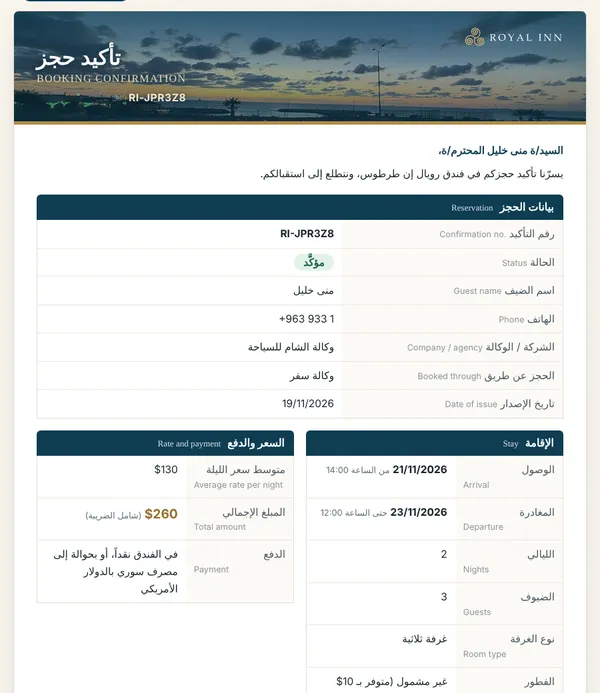
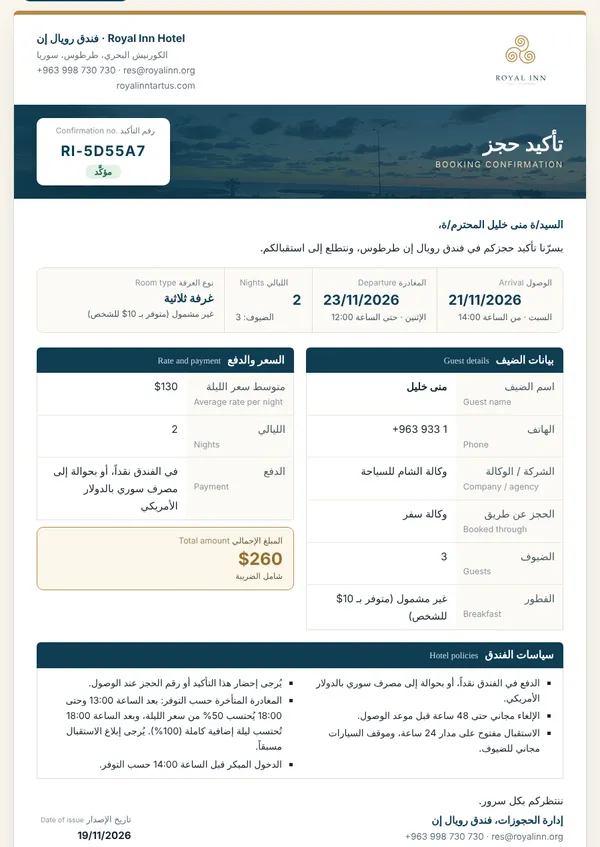
Real Excel export with named columns and four sheets; redesigned confirmation letter
Claude-Session: https://claude.ai/code/session_018wAQLqK4RswuuS9D7VS77M

diff --git a/site/panel/help.html b/site/panel/help.html
@@ -27,7 +27,7 @@
 <section id="guest" class="card"><h2><span class="ar">١. كيف يحجز الزبون من الموقع</span><span class="tr" lang="tr" dir="ltr">1. Misafir siteden nasıl rezervasyon yapar</span></h2><div class="cols"><div class="txt"><ol class="ar"><li>يختار الزبون تاريخ الوصول والمغادرة وعدد الضيوف ونوع الغرفة. يظهر له المبلغ فوراً، ويظهر له هل الغرفة متاحة.</li><li>يكتب اسمه ورقم هاتفه (واتساب)، ويختار الفطور إذا أراد، ثم يضغط «أرسل طلب الحجز».</li><li>يحصل على رقم حجز يبدأ بـ RI-. هذا <b>طلب</b> وليس حجزاً مؤكداً. الحجز يتأكد فقط عندما تؤكده أنت من اللوحة.</li><li>الزبون لا يدفع شيئاً على الموقع. الدفع في الفندق نقداً أو بحوالة مصرفية.</li><li>يستطيع الزبون لاحقاً أن يتحقق من حالة حجزه من صفحة «اتصل بنا»: يكتب رقم الحجز وآخر 4 أرقام من هاتفه، فيرى هل الحجز مؤكد أم ما زال بانتظار الرد.</li></ol><ol class="tr" lang="tr" dir="ltr"><li>Misafir giriş ve çıkış tarihini, kişi sayısını ve oda tipini seçer. Tutarı ve odanın müsait olup olmadığını hemen görür.</li><li>Adını ve telefonunu (WhatsApp) yazar, isterse kahvaltıyı işaretler ve «Rezervasyon talebini gönder»e basar.</li><li>RI- ile başlayan bir rezervasyon numarası alır. Bu bir <b>taleptir</b>, kesin rezervasyon değildir. Rezervasyon ancak siz panelden onaylayınca kesinleşir.</li><li>Misafir sitede ödeme yapmaz. Ödeme otelde nakit ya da banka havalesiyle yapılır.</li><li>Misafir daha sonra «İletişim» sayfasından rezervasyonunun durumunu kontrol edebilir: rezervasyon numarasını ve telefonunun son 4 hanesini yazar, onaylandı mı yoksa hâlâ bekliyor mu görür.</li></ol></div><div class="shots n3"><figure><img src="/panel/help/g1.webp" alt="" loading="lazy" width="600"></figure><figure><img src="/panel/help/g2.webp" alt="" loading="lazy" width="600"></figure><figure><img src="/panel/help/g3.webp" alt="" loading="lazy" width="600"></figure></div></div></section>
 <section id="login" class="card"><h2><span class="ar">٢. الدخول إلى اللوحة</span><span class="tr" lang="tr" dir="ltr">2. Panele giriş</span></h2><div class="cols"><div class="txt"><ol class="ar"><li>افتح العنوان <span class="ltr">royalinntartus.com/panel</span> من الهاتف أو الكمبيوتر.</li><li>اكتب كلمة المرور واضغط «دخول». كلمة المرور عند محمود. لا ترسلها عبر واتساب لأحد خارج الفندق.</li><li>نصيحة: أضف الصفحة إلى الشاشة الرئيسية للهاتف حتى تفتحها بضغطة واحدة.</li><li>عند الانتهاء على جهاز مشترك اضغط «خروج».</li></ol><ol class="tr" lang="tr" dir="ltr"><li>Telefondan ya da bilgisayardan <span class="ltr">royalinntartus.com/panel</span> adresini açın.</li><li>Şifreyi yazıp «دخول» (Giriş) düğmesine basın. Şifre Mahmud’da. Otel dışından kimseye WhatsApp ile göndermeyin.</li><li>İpucu: sayfayı telefonun ana ekranına ekleyin, tek dokunuşla açılır.</li><li>Ortak bir cihazda işiniz bitince «خروج» (Çıkış) düğmesine basın.</li></ol></div><div class="shots n1"><figure><img src="/panel/help/p1.webp" alt="" loading="lazy" width="600"></figure></div></div></section>
 <section id="new" class="card"><h2><span class="ar">٣. الطلبات الجديدة: أهم شاشة</span><span class="tr" lang="tr" dir="ltr">3. Yeni talepler: en önemli ekran</span></h2><div class="cols"><div class="txt"><ol class="ar"><li>الرقم الذهبي بجانب «طلبات جديدة» هو عدد الطلبات التي تنتظر ردّك. يظهر الرقم نفسه في عنوان الصفحة في المتصفح. استعمل خانة البحث للوصول إلى حجز بالاسم أو الهاتف أو رقم الحجز.</li><li>كل بطاقة فيها: الاسم، رقم الحجز، التواريخ، عدد الليالي والضيوف، الغرفة، الفطور، <b>المبلغ الإجمالي</b>، والهاتف.</li><li><b>واتساب للزبون</b>: يفتح واتساب برسالة جاهزة فيها تفاصيل الحجز والمبلغ. فقط اضغط إرسال.</li><li><b>اتصال</b>: يتصل برقم الزبون مباشرة.</li><li><b>تأكيد الحجز</b>: اضغطه بعد أن تتفق مع الزبون. عندها تُحسب الغرفة محجوزة ولا تُباع مرتين، وينتقل الحجز إلى «الحجوزات القادمة» لترسل منه رسالة التأكيد (القسم ١١).</li><li><b>إلغاء</b>: إذا لم يردّ الزبون أو غيّر رأيه. الغرفة تعود متاحة.</li><li><b>ملاحظة داخلية</b>: اكتب ما تريد (مثلاً: دفع عربون). الزبون لا يراها. اضغط «حفظ الملاحظة».</li><li>مهم: الطلب الجديد <b>لا يحجز</b> الغرفة. الغرفة تُحجز فقط بعد «تأكيد الحجز». لذلك ردّ بسرعة.</li></ol><ol class="tr" lang="tr" dir="ltr"><li>«طلبات جديدة» (Yeni talepler) yanındaki altın rengi sayı, cevabınızı bekleyen talep sayısıdır. Aynı sayı tarayıcı sekmesinin başlığında da görünür.</li><li>Her kartta: ad, rezervasyon numarası, tarihler, gece ve kişi sayısı, oda, kahvaltı, <b>toplam tutar</b> ve telefon vardır.</li><li><b>واتساب للزبون</b> (Misafire WhatsApp): rezervasyon ayrıntıları ve tutarın yazılı olduğu hazır mesajla WhatsApp’ı açar. Sadece gönder’e basın.</li><li><b>اتصال</b> (Ara): misafiri doğrudan arar.</li><li><b>تأكيد الحجز</b> (Rezervasyonu onayla): misafirle anlaştıktan sonra basın. O andan itibaren oda dolu sayılır, iki kez satılmaz.</li><li><b>إلغاء</b> (İptal): misafir cevap vermezse ya da vazgeçerse. Oda yeniden müsait olur.</li><li><b>ملاحظة داخلية</b> (İç not): istediğinizi yazın (örnek: kapora ödendi). Misafir görmez. «حفظ الملاحظة» ile kaydedin.</li><li>Önemli: yeni talep odayı <b>tutmaz</b>. Oda ancak «Rezervasyonu onayla»dan sonra tutulur. Bu yüzden hızlı cevap verin.</li></ol></div><div class="shots n2"><figure><img src="/panel/help/p2.webp" alt="" loading="lazy" width="600"></figure><figure><img src="/panel/help/p3.webp" alt="" loading="lazy" width="600"></figure></div></div></section>
-<section id="active" class="card"><h2><span class="ar">٤. الحجوزات القادمة وكل الطلبات</span><span class="tr" lang="tr" dir="ltr">4. Yaklaşan rezervasyonlar ve tüm talepler</span></h2><div class="cols"><div class="txt"><ol class="ar"><li>«الحجوزات القادمة»: كل الحجوزات التي لم تنتهِ بعد، مرتبة حسب تاريخ الوصول. الأخضر مؤكد، والذهبي ما زال جديداً.</li><li>إذا أكّدت حجزاً بالخطأ اضغط «إرجاع إلى جديد».</li><li>«كل الطلبات»: آخر 500 طلب، مع الملغاة.</li><li>«تنزيل Excel (CSV)»: ينزّل كل الحجوزات في ملف يفتح في Excel، للمحاسبة أو الأرشيف.</li></ol><ol class="tr" lang="tr" dir="ltr"><li>«الحجوزات القادمة» (Yaklaşan rezervasyonlar): henüz bitmemiş tüm rezervasyonlar, giriş tarihine göre sıralı. Yeşil onaylı, altın rengi hâlâ yeni demektir.</li><li>Bir rezervasyonu yanlışlıkla onayladıysanız «إرجاع إلى جديد» (Yeniye geri al) düğmesine basın.</li><li>«كل الطلبات» (Tüm talepler): iptal edilenler dahil son 500 talep.</li><li>«تنزيل Excel (CSV)»: tüm rezervasyonları Excel’de açılan bir dosya olarak indirir; muhasebe ve arşiv için.</li></ol></div><div class="shots n1"><figure><img src="/panel/help/p4.webp" alt="" loading="lazy" width="600"></figure></div></div></section>
+<section id="active" class="card"><h2><span class="ar">٤. الحجوزات القادمة وكل الطلبات</span><span class="tr" lang="tr" dir="ltr">4. Yaklaşan rezervasyonlar ve tüm talepler</span></h2><div class="cols"><div class="txt"><ol class="ar"><li>«الحجوزات القادمة»: كل الحجوزات التي لم تنتهِ بعد، مرتبة حسب تاريخ الوصول. الأخضر مؤكد، والذهبي ما زال جديداً.</li><li>إذا أكّدت حجزاً بالخطأ اضغط «إرجاع إلى جديد».</li><li>«كل الطلبات»: آخر 500 طلب، مع الملغاة.</li><li>«تنزيل Excel»: ينزّل ملف Excel حقيقياً فيه أربع أوراق: الحجوزات، الوكالات، دفعات الوكالات، والغرف. الأعمدة بأسماء واضحة مع فلتر وتواريخ ومبالغ جاهزة للجمع.</li></ol><ol class="tr" lang="tr" dir="ltr"><li>«الحجوزات القادمة» (Yaklaşan rezervasyonlar): henüz bitmemiş tüm rezervasyonlar, giriş tarihine göre sıralı. Yeşil onaylı, altın rengi hâlâ yeni demektir.</li><li>Bir rezervasyonu yanlışlıkla onayladıysanız «إرجاع إلى جديد» (Yeniye geri al) düğmesine basın.</li><li>«كل الطلبات» (Tüm talepler): iptal edilenler dahil son 500 talep.</li><li>«تنزيل Excel»: dört sayfalı gerçek bir Excel dosyası indirir: rezervasyonlar, acenteler, acente ödemeleri ve odalar. Sütun adları açık, filtre hazır, tarih ve tutarlar toplanabilir.</li></ol></div><div class="shots n1"><figure><img src="/panel/help/p4.webp" alt="" loading="lazy" width="600"></figure></div></div></section>
 <section id="occ" class="card"><h2><span class="ar">٥. الإشغال: كم غرفة محجوزة كل يوم</span><span class="tr" lang="tr" dir="ltr">5. Doluluk: her gün kaç oda dolu</span></h2><div class="cols"><div class="txt"><ol class="ar"><li>جدول لـ 31 يوماً. كل صف نوع غرفة، وكل عمود يوم.</li><li>الرقم في الخانة هو عدد الحجوزات <b>المؤكدة</b> في ذلك اليوم. إذا أدخلت عدد الغرف يظهر هكذا: المحجوز / العدد الكلي.</li><li>البرتقالي: توجد طلبات جديدة لم تُؤكد بعد. الرمادي: اليوم مغلق.</li><li>استخدم «السابق» و«التالي» للتنقل بين الأشهر.</li></ol><ol class="tr" lang="tr" dir="ltr"><li>31 günlük tablo. Her satır bir oda tipi, her sütun bir gün.</li><li>Kutudaki sayı o gün <b>onaylı</b> rezervasyon sayısıdır. Oda sayılarını girdiyseniz şöyle görünür: dolu / toplam.</li><li>Turuncu: henüz onaylanmamış yeni talep var. Gri: gün kapalı.</li><li>«السابق» (Önceki) ve «التالي» (Sonraki) ile aylar arasında gezin.</li></ol></div><div class="shots n1"><figure><img src="/panel/help/p5.webp" alt="" loading="lazy" width="600"></figure></div></div></section>
 <section id="add" class="card"><h2><span class="ar">٦. حجز جديد: هاتف، استقبال، وكالة أو توصية</span><span class="tr" lang="tr" dir="ltr">6. Telefonla ya da resepsiyondan gelen rezervasyon</span></h2><div class="cols"><div class="txt"><ol class="ar"><li>كل حجز يأتي بالهاتف أو واتساب أو من زبون في الاستقبال <b>يجب</b> تسجيله هنا. إذا لم تسجله، قد يبيع الموقع الغرفة نفسها لزبون آخر.</li><li>اكتب الاسم والهاتف والتواريخ ونوع الغرفة وعدد الضيوف.</li><li>المبلغ: اتركه فارغاً ليُحسب تلقائياً من الأسعار، أو اكتب المبلغ الذي اتفقت عليه.</li><li>اضغط «حفظ الحجز». يُسجَّل الحجز مؤكداً مباشرة ويظهر في الإشغال وفي «الحجوزات القادمة».</li></ol><ol class="tr" lang="tr" dir="ltr"><li>Telefonla, WhatsApp’la ya da resepsiyona gelen misafirden alınan her rezervasyon buraya <b>mutlaka</b> yazılmalı. Yazılmazsa site aynı odayı başka bir misafire satabilir.</li><li>Adı, telefonu, tarihleri, oda tipini ve kişi sayısını yazın.</li><li>Tutar: boş bırakırsanız fiyatlardan otomatik hesaplanır; anlaştığınız tutarı da yazabilirsiniz.</li><li>«حفظ الحجز» (Rezervasyonu kaydet) düğmesine basın. Rezervasyon doğrudan onaylı olarak kaydedilir ve dolulukta görünür.</li></ol></div><div class="shots n1"><figure><img src="/panel/help/p6.webp" alt="" loading="lazy" width="600"></figure></div></div></section>
 <section id="prices" class="card"><h2><span class="ar">٧. الأسعار</span><span class="tr" lang="tr" dir="ltr">7. Fiyatlar</span></h2><div class="cols"><div class="txt"><ol class="ar"><li><b>السعر الأساسي</b>: سعر الليلة لكل نوع غرفة بالدولار، شامل الضريبة. خانة «لشخصين+» هي السعر عند وجود ضيفين أو أكثر. اتركها فارغة إذا كان السعر واحداً.</li><li>إذا تركت سعر الجناح فارغاً يظهر في الموقع «السعر عند الطلب».</li><li>بعد التعديل اضغط «حفظ الأسعار». الموقع يعرض السعر الجديد فوراً.</li><li><b>أسعار خاصة</b> (موسم، أعياد، نهاية الأسبوع): اختر من تاريخ إلى تاريخ، نوع الغرفة، والسعر. يمكنك تحديد أيام معينة فقط، مثل الجمعة والسبت.</li><li>إذا تداخلت قاعدتان، تُطبَّق القاعدة التي أضفتها آخراً. لحذف قاعدة اضغط «حذف».</li></ol><ol class="tr" lang="tr" dir="ltr"><li><b>Temel fiyat</b>: her oda tipinin gecelik dolar fiyatı, vergi dahil. «لشخصين+» kutusu iki ve daha fazla kişi için fiyattır. Fiyat tekse boş bırakın.</li><li>Süit fiyatını boş bırakırsanız sitede «Fiyat sorunuz» yazar.</li><li>Değiştirdikten sonra «حفظ الأسعار» (Fiyatları kaydet) düğmesine basın. Site yeni fiyatı hemen gösterir.</li><li><b>Özel fiyatlar</b> (sezon, bayram, hafta sonu): başlangıç ve bitiş tarihini, oda tipini ve fiyatı seçin. Yalnızca belirli günleri de seçebilirsiniz, örneğin cuma ve cumartesi.</li><li>İki kural çakışırsa en son eklediğiniz geçerli olur. Kuralı silmek için «حذف» (Sil) düğmesine basın.</li></ol></div><div class="shots n1"><figure><img src="/panel/help/p7.webp" alt="" loading="lazy" width="600"></figure></div></div></section>

diff --git a/site/panel/letter.css b/site/panel/letter.css
@@ -51,3 +51,42 @@ h2 i{color:#cfdde2}
   .two{grid-template-columns:1fr 1fr}
   .bye{margin-top:10px}.lf{margin:10px 0 0;padding:8px 0 0}
 }
+
+/* v3: confirmation letter with a letterhead, a title bar, a stay strip and a total box */
+.letter{border-top:6px solid #B48A45}
+.lh{display:flex;align-items:center;justify-content:space-between;gap:20px;padding:22px 34px 18px}
+.lh img{width:128px;height:auto}
+.lh-c{display:grid;gap:1px;text-align:end;font-size:.84rem;color:#64727b}.lh-c b{color:#0F3D52;font-size:1rem}
+.hero{display:flex;align-items:center;justify-content:space-between;gap:20px;padding:20px 34px;color:#fff;
+  background:linear-gradient(90deg,rgba(15,61,82,.94),rgba(15,61,82,.72)),url(/assets/img/band-sunset-1200.jpg) center 82%/cover #0F3D52;
+  -webkit-print-color-adjust:exact;print-color-adjust:exact}
+.hero h1{font-family:"El Messiri","Cormorant Garamond",Almarai,serif;font-size:1.9rem;line-height:1.2;margin:0;color:#fff}
+.hero-t p{margin:2px 0 0;color:#e9d9b8;letter-spacing:.14em;text-transform:uppercase;font-size:.78rem}
+.refbox{background:#fff;color:#17242c;border-radius:10px;padding:10px 18px;text-align:center;display:grid;gap:2px;min-width:200px;box-shadow:0 6px 20px -10px rgba(0,0,0,.5)}
+.refbox span{font-size:.74rem;color:#64727b}.refbox span i{font-size:1em}
+.refbox b{font-size:1.35rem;letter-spacing:.06em;color:#0F3D52}
+.refbox em{font-style:normal;justify-self:center;font-size:.8rem}
+.strip{display:grid;grid-template-columns:1fr 1fr .7fr 1.5fr;border:1px solid #e4ddd0;border-radius:10px;overflow:hidden;margin:16px 0 4px;background:#fcfaf6;break-inside:avoid;
+  -webkit-print-color-adjust:exact;print-color-adjust:exact}
+.tile{padding:12px 16px;display:grid;gap:2px;align-content:start}
+.tile+.tile{border-inline-start:1px solid #e4ddd0}
+.tile .tl{font-size:.76rem;color:#64727b}.tile .tl i{font-size:1em}
+.tile b{font-size:1.3rem;color:#0F3D52;line-height:1.3}.tile.wide b{font-size:1.08rem}
+.tile .ts{font-size:.8rem;color:#4a5a63}
+.total{display:flex;justify-content:space-between;align-items:stretch;gap:0;margin-top:10px;border:1px solid #B48A45;border-radius:10px;overflow:hidden;background:#fbf6ea;break-inside:avoid;
+  -webkit-print-color-adjust:exact;print-color-adjust:exact}
+.total>div{flex:1;padding:10px 16px;display:grid;gap:0}
+.total span{font-size:.78rem;color:#6b5a36}.total span i{font-size:1em;color:#9a8a66}
+.total b{font-size:1.6rem;color:#96702f;line-height:1.25}.total small{color:#6b5a36;font-size:.76rem}
+.total .due{border-inline-start:1px solid #e3cf9f;background:#fff}.total .due b{color:#0F3D52}
+.pols .pol{columns:2;column-gap:34px;font-size:.88rem}.pols .pol li{break-inside:avoid}
+.signs{display:flex;justify-content:space-between;align-items:flex-end;gap:20px;margin-top:20px;break-inside:avoid}
+.signs .bye{margin:0 0 4px}.signs .sign{margin:0;font-weight:700;color:#0F3D52}.muted{color:#64727b;font-size:.84rem;margin:0}
+.issue{display:grid;gap:1px;text-align:end;font-size:.8rem;color:#64727b}.issue b{color:#17242c;font-size:.95rem}
+.auto{margin:14px 0 0;padding-top:10px;border-top:1px dashed #d9d0bf;font-size:.76rem;color:#8a959c;text-align:center}
+.lf2{display:flex;justify-content:space-between;gap:12px;background:#0F3D52;color:#dfe9ec;font-size:.8rem;padding:9px 34px;margin-top:18px;-webkit-print-color-adjust:exact;print-color-adjust:exact}
+@media (max-width:640px){.lh{padding:16px;flex-direction:column;align-items:flex-start}.lh-c{text-align:start}.hero{padding:16px;flex-direction:column;align-items:stretch}.hero h1{font-size:1.5rem}
+  .strip{grid-template-columns:1fr 1fr}.tile:nth-child(3){border-inline-start:0}.tile:nth-child(n+3){border-top:1px solid #e4ddd0}.pols .pol{columns:1}.signs{flex-direction:column;align-items:flex-start}.issue{text-align:start}.lf2{padding:9px 16px;flex-direction:column}}
+@media print{.letter{border-top:5px solid #B48A45}.lh{padding:0 0 10px}.lh img{width:92px}.hero{padding:12px 18px}.hero h1{font-size:1.45rem}.refbox{padding:6px 14px}.refbox b{font-size:1.1rem}
+  .strip{margin:10px 0 0}.tile{padding:7px 12px}.tile b{font-size:1.1rem}.total b{font-size:1.3rem}.total>div{padding:6px 12px}.signs{margin-top:12px}.auto{margin-top:8px;padding-top:6px}.lf2{padding:6px 12px;margin-top:10px}
+  .strip{grid-template-columns:1fr 1fr .7fr 1.5fr}.pols .pol{columns:2}}

diff --git a/site/panel/index.html b/site/panel/index.html
@@ -70,7 +70,7 @@
     </div>
 
     <div id="view-list">
-      <div class="page-head"><h1 id="list-h">الطلبات</h1><a class="ghost sm" href="/api/admin/export.csv">تنزيل Excel (CSV)</a></div>
+      <div class="page-head"><h1 id="list-h">الطلبات</h1><a class="ghost sm" href="/api/admin/export.xlsx">تنزيل Excel</a></div>
       <div class="bar"><span id="list-title" class="muted"></span><input type="search" id="list-search" class="search" placeholder="بحث: اسم، هاتف، رقم الحجز" aria-label="بحث في الطلبات"></div>
       <div id="list"></div>
     </div>

diff --git a/app/api.py b/app/api.py
@@ -551,6 +551,102 @@ def agency_sums(con, aid):
     return bks, pays, {'bookings': len(bks), 'sales': sales, 'due': due, 'paid': paid, 'balance': due - paid, 'commission_owed': commission}
 
 
+def xlsx(sheets):
+    """A real Excel workbook, written with the standard library only. sheets = [(name, [(header, width, kind)], rows)].
+    kind: 's' text, 'n' number, 'm' money, 'd' date (YYYY-MM-DD), 't' date and time. Right-to-left, frozen header, filter."""
+    import zipfile
+    from xml.sax.saxutils import escape as x
+
+    def col(i):
+        r = ''
+        i += 1
+        while i:
+            i, m = divmod(i - 1, 26); r = chr(65 + m) + r
+        return r
+
+    def cell(ref, v, kind, head=False):
+        if head:
+            return '<c r="%s" s="1" t="inlineStr"><is><t>%s</t></is></c>' % (ref, x(v))
+        if v is None or v == '':
+            return ''
+        try:
+            if kind in ('n', 'm'):
+                return '<c r="%s" s="%d"><v>%s</v></c>' % (ref, 3 if kind == 'm' else 0, float(v) if isinstance(v, float) else int(v))
+            if kind == 'd':
+                return '<c r="%s" s="2"><v>%d</v></c>' % (ref, (dt.date.fromisoformat(str(v)[:10]) - dt.date(1899, 12, 30)).days)
+            if kind == 't':
+                t = dt.datetime.fromisoformat(str(v)).astimezone().replace(tzinfo=None)
+                return '<c r="%s" s="4"><v>%.5f</v></c>' % (ref, (t - dt.datetime(1899, 12, 30)).total_seconds() / 86400.0)
+        except (TypeError, ValueError):
+            pass
+        return '<c r="%s" t="inlineStr"><is><t xml:space="preserve">%s</t></is></c>' % (ref, x(re.sub(r'[\x00-\x08\x0b\x0c\x0e-\x1f]', '', str(v))))
+
+    styles = ('<?xml version="1.0" encoding="UTF-8" standalone="yes"?><styleSheet xmlns="http://schemas.openxmlformats.org/spreadsheetml/2006/main">'
+              '<numFmts count="3"><numFmt numFmtId="164" formatCode="dd/mm/yyyy"/><numFmt numFmtId="165" formatCode="&quot;$&quot;#,##0"/><numFmt numFmtId="166" formatCode="dd/mm/yyyy hh:mm"/></numFmts>'
+              '<fonts count="2"><font><sz val="11"/><name val="Calibri"/></font><font><b/><sz val="11"/><color rgb="FFFFFFFF"/><name val="Calibri"/></font></fonts>'
+              '<fills count="3"><fill><patternFill patternType="none"/></fill><fill><patternFill patternType="gray125"/></fill><fill><patternFill patternType="solid"><fgColor rgb="FF0F3D52"/></patternFill></fill></fills>'
+              '<borders count="1"><border><left/><right/><top/><bottom/><diagonal/></border></borders><cellStyleXfs count="1"><xf numFmtId="0" fontId="0" fillId="0" borderId="0"/></cellStyleXfs>'
+              '<cellXfs count="5"><xf numFmtId="0" fontId="0" fillId="0" borderId="0" xfId="0"/>'
+              '<xf numFmtId="0" fontId="1" fillId="2" borderId="0" xfId="0" applyFont="1" applyFill="1" applyAlignment="1"><alignment horizontal="center" vertical="center" wrapText="1"/></xf>'
+              '<xf numFmtId="164" fontId="0" fillId="0" borderId="0" xfId="0" applyNumberFormat="1"/><xf numFmtId="165" fontId="0" fillId="0" borderId="0" xfId="0" applyNumberFormat="1"/>'
+              '<xf numFmtId="166" fontId="0" fillId="0" borderId="0" xfId="0" applyNumberFormat="1"/></cellXfs>'
+              '<cellStyles count="1"><cellStyle name="Normal" xfId="0" builtinId="0"/></cellStyles></styleSheet>')
+    buf = io.BytesIO()
+    with zipfile.ZipFile(buf, 'w', zipfile.ZIP_DEFLATED) as z:
+        z.writestr('[Content_Types].xml', '<?xml version="1.0" encoding="UTF-8" standalone="yes"?><Types xmlns="http://schemas.openxmlformats.org/package/2006/content-types">'
+                   '<Default Extension="rels" ContentType="application/vnd.openxmlformats-package.relationships+xml"/><Default Extension="xml" ContentType="application/xml"/>'
+                   '<Override PartName="/xl/workbook.xml" ContentType="application/vnd.openxmlformats-officedocument.spreadsheetml.sheet.main+xml"/>'
+                   '<Override PartName="/xl/styles.xml" ContentType="application/vnd.openxmlformats-officedocument.spreadsheetml.styles+xml"/>'
+                   + ''.join('<Override PartName="/xl/worksheets/sheet%d.xml" ContentType="application/vnd.openxmlformats-officedocument.spreadsheetml.worksheet+xml"/>' % (i + 1) for i in range(len(sheets))) + '</Types>')
+        z.writestr('_rels/.rels', '<?xml version="1.0" encoding="UTF-8" standalone="yes"?><Relationships xmlns="http://schemas.openxmlformats.org/package/2006/relationships">'
+                   '<Relationship Id="rId1" Type="http://schemas.openxmlformats.org/officeDocument/2006/relationships/officeDocument" Target="xl/workbook.xml"/></Relationships>')
+        z.writestr('xl/workbook.xml', '<?xml version="1.0" encoding="UTF-8" standalone="yes"?><workbook xmlns="http://schemas.openxmlformats.org/spreadsheetml/2006/main" '
+                   'xmlns:r="http://schemas.openxmlformats.org/officeDocument/2006/relationships"><sheets>'
+                   + ''.join('<sheet name="%s" sheetId="%d" r:id="rId%d"/>' % (x(n), i + 1, i + 1) for i, (n, _c, _r) in enumerate(sheets)) + '</sheets></workbook>')
+        z.writestr('xl/_rels/workbook.xml.rels', '<?xml version="1.0" encoding="UTF-8" standalone="yes"?><Relationships xmlns="http://schemas.openxmlformats.org/package/2006/relationships">'
+                   + ''.join('<Relationship Id="rId%d" Type="http://schemas.openxmlformats.org/officeDocument/2006/relationships/worksheet" Target="worksheets/sheet%d.xml"/>' % (i + 1, i + 1) for i in range(len(sheets)))
+                   + '<Relationship Id="rId%d" Type="http://schemas.openxmlformats.org/officeDocument/2006/relationships/styles" Target="styles.xml"/></Relationships>' % (len(sheets) + 1))
+        z.writestr('xl/styles.xml', styles)
+        for i, (_n, cols, rows) in enumerate(sheets):
+            last = '%s%d' % (col(len(cols) - 1), len(rows) + 1)
+            body = '<row r="1" ht="30" customHeight="1">%s</row>' % ''.join(cell('%s1' % col(c), h, 's', True) for c, (h, _w, _k) in enumerate(cols))
+            for ri, r in enumerate(rows):
+                body += '<row r="%d">%s</row>' % (ri + 2, ''.join(cell('%s%d' % (col(c), ri + 2), r[c], cols[c][2]) for c in range(len(cols))))
+            z.writestr('xl/worksheets/sheet%d.xml' % (i + 1), '<?xml version="1.0" encoding="UTF-8" standalone="yes"?><worksheet xmlns="http://schemas.openxmlformats.org/spreadsheetml/2006/main">'
+                       '<sheetViews><sheetView rightToLeft="1" workbookViewId="0"%s><pane ySplit="1" topLeftCell="A2" activePane="bottomLeft" state="frozen"/></sheetView></sheetViews>' % (' tabSelected="1"' if i == 0 else '')
+                       + '<cols>%s</cols><sheetData>%s</sheetData><autoFilter ref="A1:%s"/></worksheet>' % (''.join('<col min="%d" max="%d" width="%d" customWidth="1"/>' % (c + 1, c + 1, w) for c, (_h, w, _k) in enumerate(cols)), body, last))
+    return buf.getvalue()
+
+
+def export_book(con):
+    load_agencies(con)
+    stt = {'new': 'جديد', 'confirmed': 'مؤكَّد', 'cancelled': 'ملغى'}
+    cols = [('رقم الحجز', 13, 's'), ('الحالة', 10, 's'), ('المصدر', 14, 's'), ('الوكالة', 20, 's'), ('من يدفع', 10, 's'), ('اسم الضيف', 24, 's'), ('الهاتف', 18, 's'), ('البريد الإلكتروني', 28, 's'),
+            ('الوصول', 12, 'd'), ('المغادرة', 12, 'd'), ('الليالي', 8, 'n'), ('الضيوف', 8, 'n'), ('نوع الغرفة', 22, 's'), ('رقم الغرفة', 10, 's'), ('الفطور', 8, 's'),
+            ('المبلغ الإجمالي', 14, 'm'), ('رسم المغادرة المتأخرة', 14, 'm'), ('المدفوع', 11, 'm'), ('المتبقي', 11, 'm'), ('الصافي من الوكالة', 14, 'm'),
+            ('سُجِّل الوصول', 17, 't'), ('سُجِّلت المغادرة', 17, 't'), ('عدم حضور', 9, 's'), ('عن طريق (شخص)', 18, 's'), ('رسالة الضيف', 36, 's'), ('ملاحظة داخلية', 36, 's'), ('تاريخ الطلب', 17, 't')]
+    rows = []
+    for r in con.execute('SELECT * FROM bookings ORDER BY check_in DESC, created DESC'):
+        tot, paid = r['total'], r['paid']
+        rows.append([r['ref'], stt.get(r['status'], r['status']), SOURCES.get(r['source'] or 'web', 'الموقع'), AGENCIES.get(r['agency_id'], '') if r['agency_id'] else '',
+                     ('الوكالة' if r['pay_by'] == 'agency' else 'الضيف') if r['agency_id'] else '', r['name'], r['phone'], r['email'], r['check_in'], r['check_out'], r['nights'], r['guests'],
+                     ROOMS[r['room']][1] if r['room'] in ROOMS else 'غير محدد', r['room_no'], 'نعم' if r['breakfast'] else 'لا', tot, r['late_fee'], paid,
+                     None if tot is None or r['status'] == 'cancelled' else max(0, tot - (paid or 0)), r['net'] if r['pay_by'] == 'agency' else None,
+                     r['arrived'], r['departed'], 'نعم' if r['no_show'] else '', r['referrer'], r['message'], r['staff_note'], r['created']])
+    acols = [('الوكالة', 26, 's'), ('العمولة %', 10, 'n'), ('المسؤول', 20, 's'), ('الهاتف', 18, 's'), ('حجوزات مؤكَّدة', 12, 'n'), ('إجمالي المبيعات', 14, 'm'),
+             ('المستحق على الوكالة', 16, 'm'), ('المدفوع', 12, 'm'), ('الرصيد المتبقي', 14, 'm'), ('عمولة مستحقة للوكالة', 16, 'm')]
+    arows = []
+    for a in con.execute('SELECT * FROM agencies ORDER BY name').fetchall():
+        _b, _p, sm = agency_sums(con, a['id'])
+        arows.append([a['name'], a['commission'], a['contact'], a['phone'], sm['bookings'], sm['sales'], sm['due'], sm['paid'], sm['balance'], sm['commission_owed']])
+    pcols = [('التاريخ', 12, 'd'), ('الوكالة', 26, 's'), ('المبلغ', 12, 'm'), ('ملاحظة', 36, 's')]
+    prows = [[x['date'], AGENCIES.get(x['agency_id'], ''), x['amount'], x['note']] for x in con.execute('SELECT * FROM agency_payments ORDER BY date DESC, id DESC')]
+    ucols = [('رقم الغرفة', 11, 's'), ('نوع الغرفة', 24, 's'), ('الطابق', 9, 's'), ('الحالة اليوم', 22, 's'), ('الضيف', 24, 's'), ('حتى', 12, 'd')]
+    ust = {'free': 'جاهزة', 'occupied': 'مشغولة', 'arriving': 'محجوزة، الضيف لم يصل', 'leaving': 'مغادرة اليوم', 'dirty': 'تحتاج تنظيف', 'out': 'خارج الخدمة'}
+    urows = [[u['no'], u['room_name'], u['floor'], ust[u['state']], u['guest'], u['until']] for u in units_view(con, dt.date.today().isoformat())]
+    return xlsx([('الحجوزات', cols, rows), ('الوكالات', acols, arows), ('دفعات الوكالات', pcols, prows), ('الغرف', ucols, urows)])
+
+
 def units_view(con, ds, free_only=False):
     """The room rack for one day: every numbered room with who is in it, who arrives and who leaves."""
     out = []
@@ -589,11 +685,11 @@ def row(r):
 HOTEL = {'phone': '+963 998 730 730', 'wa': '963998730730', 'email': 'res@royalinn.org', 'site': 'royalinntartus.com'}
 # Labels are printed in both languages: the guest's language first, the other one small beside it.
 LBL = {'ref': ('Confirmation no.', 'رقم التأكيد'), 'status': ('Status', 'الحالة'), 'issued': ('Date of issue', 'تاريخ الإصدار'), 'to': ('Guest name', 'اسم الضيف'),
-       'phone': ('Phone', 'الهاتف'), 'company': ('Company / agency', 'الشركة / الوكالة'), 'via': ('Booked through', 'الحجز عن طريق'),
+       'phone': ('Phone', 'الهاتف'), 'email': ('E-mail', 'البريد الإلكتروني'), 'company': ('Company / agency', 'الشركة / الوكالة'), 'via': ('Booked through', 'الحجز عن طريق'),
        'cin': ('Arrival', 'الوصول'), 'cout': ('Departure', 'المغادرة'), 'nights': ('Nights', 'الليالي'), 'guests': ('Guests', 'الضيوف'),
        'room': ('Room type', 'نوع الغرفة'), 'room_no': ('Room number', 'رقم الغرفة'), 'bf': ('Breakfast', 'الفطور'), 'rate': ('Average rate per night', 'متوسط سعر الليلة'),
        'late': ('Late check-out fee', 'رسم المغادرة المتأخرة'), 'total': ('Total amount', 'المبلغ الإجمالي'), 'paid': ('Paid', 'المدفوع'), 'due': ('Balance due at the hotel', 'المتبقي للدفع في الفندق'), 'pay': ('Payment', 'الدفع')}
-SEC = {'res': ('Reservation', 'بيانات الحجز'), 'stay': ('Stay', 'الإقامة'), 'rate': ('Rate and payment', 'السعر والدفع'), 'pol': ('Hotel policies', 'سياسات الفندق')}
+SEC = {'res': ('Guest details', 'بيانات الضيف'), 'stay': ('Stay', 'الإقامة'), 'rate': ('Rate and payment', 'السعر والدفع'), 'pol': ('Hotel policies', 'سياسات الفندق')}
 VIA = {'web': ('Hotel website', 'موقع الفندق'), 'desk': ('Hotel reception', 'استقبال الفندق'), 'phone': ('Telephone', 'الهاتف'), 'agency': ('Travel agency', 'وكالة سفر'), 'referral': ('Referral', 'توصية')}
 LETTER = {
     'ar': dict(dir='rtl', title='تأكيد حجز', hello='السيد/ة {name} المحترم/ة،', intro='يسرّنا تأكيد حجزكم في فندق رويال إن طرطوس، ونتطلع إلى استقبالكم.',
@@ -625,7 +721,7 @@ def _fd(ds):
 def doc_head(lang, direction, title):
     return ('<!DOCTYPE html>\n<html lang="%s" dir="%s">\n<head>\n<meta charset="utf-8">\n<meta name="viewport" content="width=device-width, initial-scale=1">\n'
             '<meta name="robots" content="noindex, nofollow">\n<title>%s | Royal Inn Tartus</title>\n<link rel="icon" href="/favicon.ico">\n'
-            '<link rel="stylesheet" href="/assets/css/fonts-g.css?v=1">\n<link rel="stylesheet" href="/panel/letter.css?v=2">\n<script src="/panel/letter.js?v=1" defer></script>\n</head>\n<body>\n'
+            '<link rel="stylesheet" href="/assets/css/fonts-g.css?v=1">\n<link rel="stylesheet" href="/panel/letter.css?v=3">\n<script src="/panel/letter.js?v=1" defer></script>\n</head>\n<body>\n'
             % (lang, direction, _esc(title)))
 
 
@@ -657,44 +753,60 @@ def letter_html(r, S=None):
         return head + '<main class="sheet">' + doc_band(e(msg)) + '<div class="pad">%s</div>' % sub + doc_foot(L['addr']) + '</main>\n</body>\n</html>\n'
     keys = r.keys()
     g = lambda k: r[k] if k in keys else None
+    O = LETTER['en' if lang == 'ar' else 'ar']
     lab = lambda k: '%s <i dir="auto">%s</i>' % (e(LBL[k][i]), e(LBL[k][j]))
     sec = lambda k, rows: ('<section class="sec"><h2>%s <i>%s</i></h2><table class="lt">%s</table></section>'
                            % (e(SEC[k][i]), e(SEC[k][j]), ''.join('<tr><th>%s</th><td>%s</td></tr>' % (lab(a), v) for a, v in rows)))
     agency = AGENCIES.get(g('agency_id')) if g('agency_id') else None
     room = ROOMS[r['room']][0 if lang == 'en' else 1] if r['room'] in ROOMS else L['any']
-    res = [('ref', '<b dir="ltr">%s</b>' % e(r['ref'])), ('status', '<span class="ok">%s</span>' % e(L['confirmed'])),
-           ('to', e(r['name']))]
+    dn = (['Monday', 'Tuesday', 'Wednesday', 'Thursday', 'Friday', 'Saturday', 'Sunday'] if lang == 'en'
+          else ['الإثنين', 'الثلاثاء', 'الأربعاء', 'الخميس', 'الجمعة', 'السبت', 'الأحد'])
+    wd = lambda ds: dn[dt.date.fromisoformat(ds).weekday()]
+    tile = lambda k, big, small, cls='': '<div class="tile %s"><span class="tl">%s</span><b dir="auto">%s</b><span class="ts">%s</span></div>' % (cls, lab(k), big, small)
+    strip = ('<div class="strip">' + tile('cin', _fd(r['check_in']), '%s · %s' % (e(wd(r['check_in'])), e(L['from14'])))
+             + tile('cout', _fd(r['check_out']), '%s · %s' % (e(wd(r['check_out'])), e(L['until12'])))
+             + tile('nights', r['nights'], '%s: %s' % (e(LBL['guests'][i]), r['guests']), 'num') + tile('room', e(room), ('%s: %s' % (e(LBL['room_no'][i]), e(g('room_no')))) if g('room_no') else e(L['yes'] if r['breakfast'] else L['no']), 'wide') + '</div>')
+    res = [('to', '<b>%s</b>' % e(r['name']))]
     if r['phone'] and r['phone'] != '-':
         res.append(('phone', '<span dir="ltr">%s</span>' % e(r['phone'])))
+    if g('email'):
+        res.append(('email', '<span dir="ltr">%s</span>' % e(g('email'))))
     if agency:
         res.append(('company', e(agency)))
     src = g('source') or 'web'
     res.append(('via', e(VIA.get(src, VIA['web'])[i]) + ((' · ' + e(g('referrer'))) if (src == 'referral' and g('referrer')) else '')))
-    res.append(('issued', '<span dir="ltr">%s</span>' % _fd(dt.date.today().isoformat())))
-    stay = [('cin', '<b dir="ltr">%s</b> <small>%s</small>' % (_fd(r['check_in']), e(L['from14']))),
-            ('cout', '<b dir="ltr">%s</b> <small>%s</small>' % (_fd(r['check_out']), e(L['until12']))),
-            ('nights', r['nights']), ('guests', r['guests']), ('room', e(room))]
-    if g('room_no'):
-        stay.append(('room_no', '<span dir="ltr">%s</span>' % e(g('room_no'))))
-    stay.append(('bf', e(L['yes'] if r['breakfast'] else L['no'])))
+    res += [('guests', r['guests']), ('bf', e(L['yes'] if r['breakfast'] else L['no']))]
+    total_box = ''
     if agency and g('pay_by') == 'agency':      # a voucher: the guest pays the agency, so no amounts are printed
         rate = [('pay', e(L['by_agency'].format(a=agency)))]
     elif r['total']:
-        paid = g('paid') or 0
-        rate = [('rate', '$%d' % round((r['total'] - (g('late_fee') or 0)) / max(1, r['nights']))), ('total', '<b class="tot">$%d</b> <small>(%s)</small>' % (r['total'], e(L['tax'])))]
-        if g('late_fee'):
-            rate.insert(1, ('late', '$%d' % g('late_fee')))
+        paid = g('paid') or 0; lf = g('late_fee') or 0
+        rate = [('rate', '$%d' % round((r['total'] - lf) / max(1, r['nights']))), ('nights', '%d' % r['nights'])]
+        if lf:
+            rate.append(('late', '$%d' % lf))
         if paid:
-            rate += [('paid', '$%d' % paid), ('due', '<b>$%d</b>' % max(0, r['total'] - paid))]
+            rate.append(('paid', '$%d' % paid))
         rate.append(('pay', e(L['at_hotel'])))
+        due = max(0, r['total'] - paid)
+        total_box = ('<div class="total"><div><span>%s</span><b>$%d</b><small>%s</small></div>%s</div>'
+                     % (lab('total'), r['total'], e(L['tax']), ('<div class="due"><span>%s</span><b>$%d</b></div>' % (lab('due'), due)) if paid else ''))
     else:
         rate = [('total', e(L['ask'])), ('pay', e(L['at_hotel']))]
-    pol = '<section class="sec"><h2>%s <i>%s</i></h2><ul class="pol">%s</ul></section>' % (e(SEC['pol'][i]), e(SEC['pol'][j]), ''.join('<li>%s</li>' % e(x) for x in L['t']))
-    band = doc_band(e(L['title']) + (' <i>%s</i>' % e(LETTER['en' if lang == 'ar' else 'ar']['title'])), '<p dir="ltr">%s</p>' % e(r['ref']))
-    return (head + '<div class="tools"><button type="button" data-print>%s</button></div><main class="sheet">' % e(L['print']) + band
+    pol = '<section class="sec pols"><h2>%s <i>%s</i></h2><ul class="pol">%s</ul></section>' % (e(SEC['pol'][i]), e(SEC['pol'][j]), ''.join('<li>%s</li>' % e(x) for x in L['t']))
+    lh = ('<header class="lh"><img src="/assets/img/logo-stacked.svg" alt="Royal Inn" width="150" height="109">'
+          '<div class="lh-c"><b>Royal Inn Hotel · فندق رويال إن</b><span>%s</span><span dir="ltr">%s · %s</span><span dir="ltr">%s</span></div></header>'
+          % (e(L['addr']), HOTEL['phone'], HOTEL['email'], HOTEL['site']))
+    hero = ('<div class="hero"><div class="hero-t"><h1>%s</h1><p>%s</p></div><div class="refbox"><span>%s</span><b dir="ltr">%s</b><em class="ok">%s</em></div></div>'
+            % (e(L['title']), e(O['title']), lab('ref'), e(r['ref']), e(L['confirmed'])))
+    signed = ('<div class="signs"><div><p class="bye">%s</p><p class="sign">%s</p><p class="muted" dir="ltr">%s · %s</p></div>'
+              '<div class="issue"><span>%s</span><b dir="ltr">%s</b></div></div><p class="auto">%s</p>'
+              % (e(L['bye']), e(L['sign']), HOTEL['phone'], HOTEL['email'], lab('issued'), _fd(dt.date.today().isoformat()),
+                 e('This confirmation was issued electronically by the hotel reservation system and is valid without a signature.' if lang == 'en'
+                   else 'صدر هذا التأكيد إلكترونياً من نظام حجوزات الفندق، وهو صالح بدون توقيع.')))
+    return (head + '<div class="tools"><button type="button" data-print>%s</button></div><main class="sheet letter">' % e(L['print']) + lh + hero
             + '<div class="pad"><p class="hello">%s</p><p>%s</p>' % (e(L['hello'].format(name=r['name'])), e(L['intro']))
-            + sec('res', res) + '<div class="two">' + sec('stay', stay) + sec('rate', rate) + '</div>' + pol
-            + '<p class="bye">%s</p><p class="sign">%s</p></div>' % (e(L['bye']), e(L['sign'])) + doc_foot(L['addr']) + '</main>\n</body>\n</html>\n')
+            + strip + '<div class="two">' + sec('res', res) + '<div>' + sec('rate', rate) + total_box + '</div></div>' + pol + signed + '</div>'
+            + '<footer class="lf2"><span>%s</span><span dir="ltr">%s</span></footer>' % (e(L['addr']), HOTEL['site']) + '</main>\n</body>\n</html>\n')
 
 
 def pricelist_html(con, agency=None):
@@ -1029,6 +1141,9 @@ class H(BaseHTTPRequestHandler):
                         rows.append({'id': k, 'name': v[1], 'count': inv.get(k), 'cells': cells})
                     unassigned = [[sum(1 for x in bks if not x['room'] and x['status'] == s and x['check_in'] <= d.isoformat() < x['check_out']) for s in ('confirmed', 'new')] for d in dates]
                     return self.send(200, {'ok': True, 'dates': [d.isoformat() for d in dates], 'rows': rows, 'any': unassigned})
+                if p == '/api/admin/export.xlsx':
+                    return self.send(200, raw=export_book(con), ctype='application/vnd.openxmlformats-officedocument.spreadsheetml.sheet',
+                                     extra={'Content-Disposition': 'attachment; filename="royalinn-bookings-%s.xlsx"' % dt.date.today().isoformat()})
                 if p == '/api/admin/export.csv':
                     out = io.StringIO(); w = csv.writer(out)
                     cols = ['ref', 'created', 'status', 'source', 'check_in', 'check_out', 'nights', 'guests', 'room', 'breakfast', 'total', 'paid', 'room_no', 'arrived', 'departed', 'name', 'phone', 'email', 'message', 'staff_note', 'pay_by', 'net', 'referrer']
